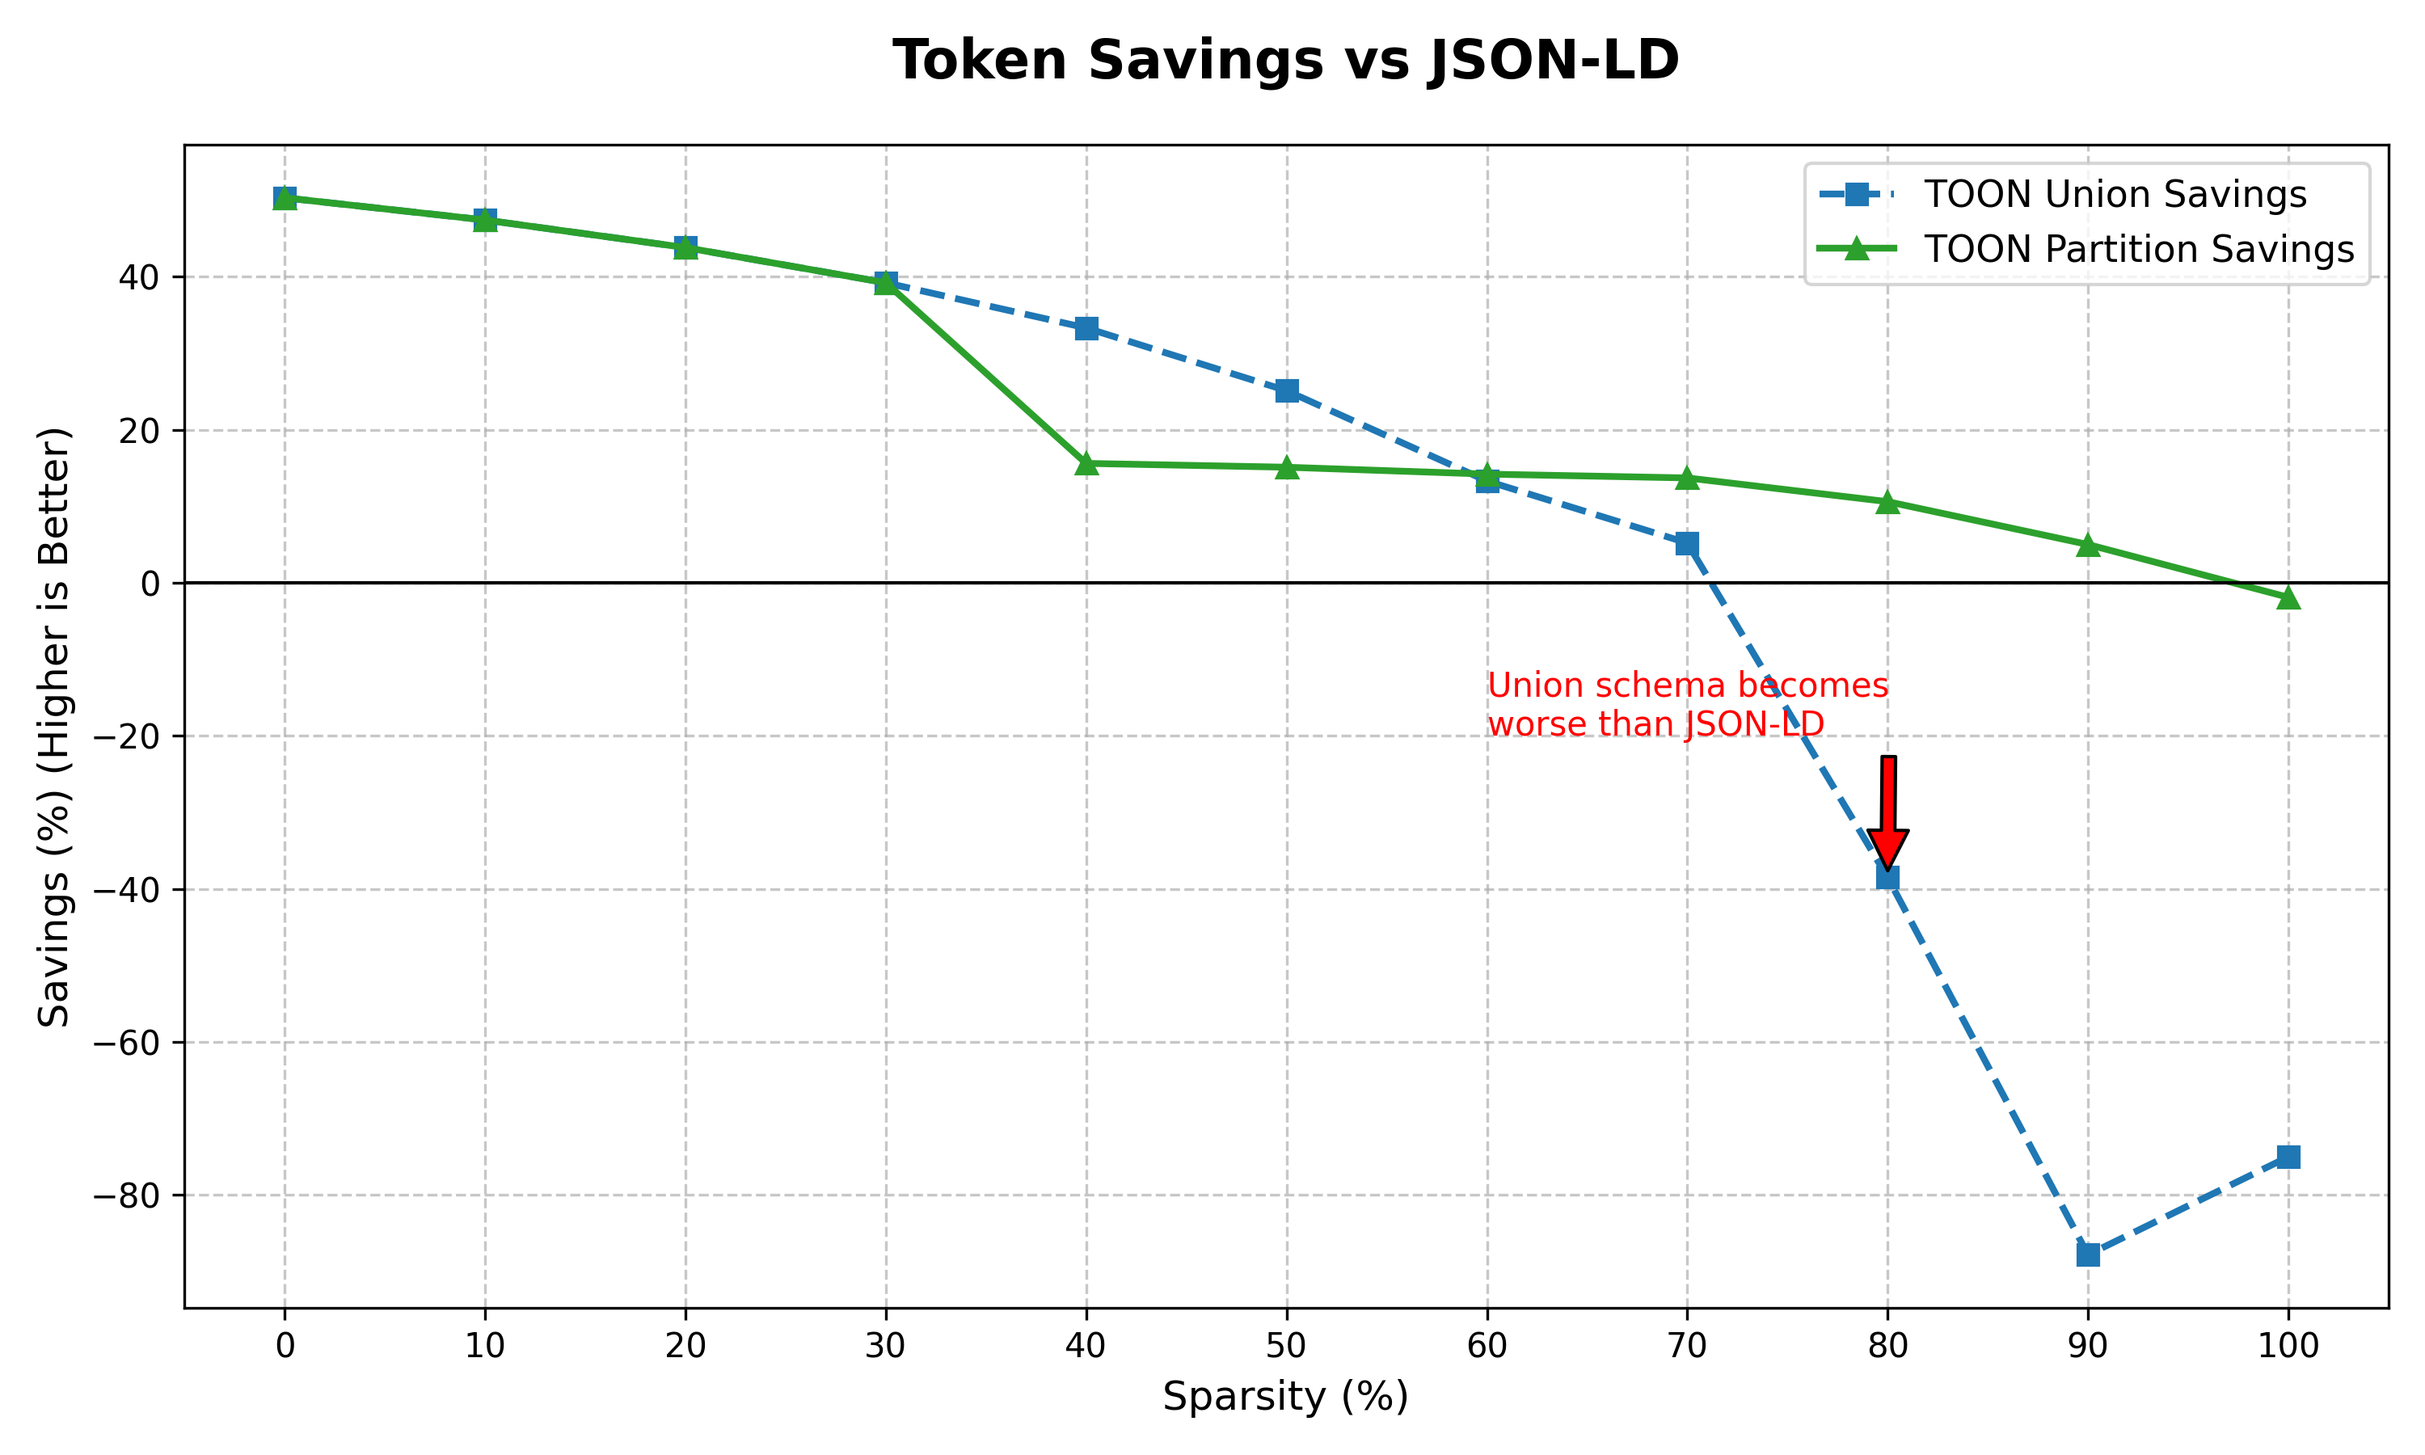
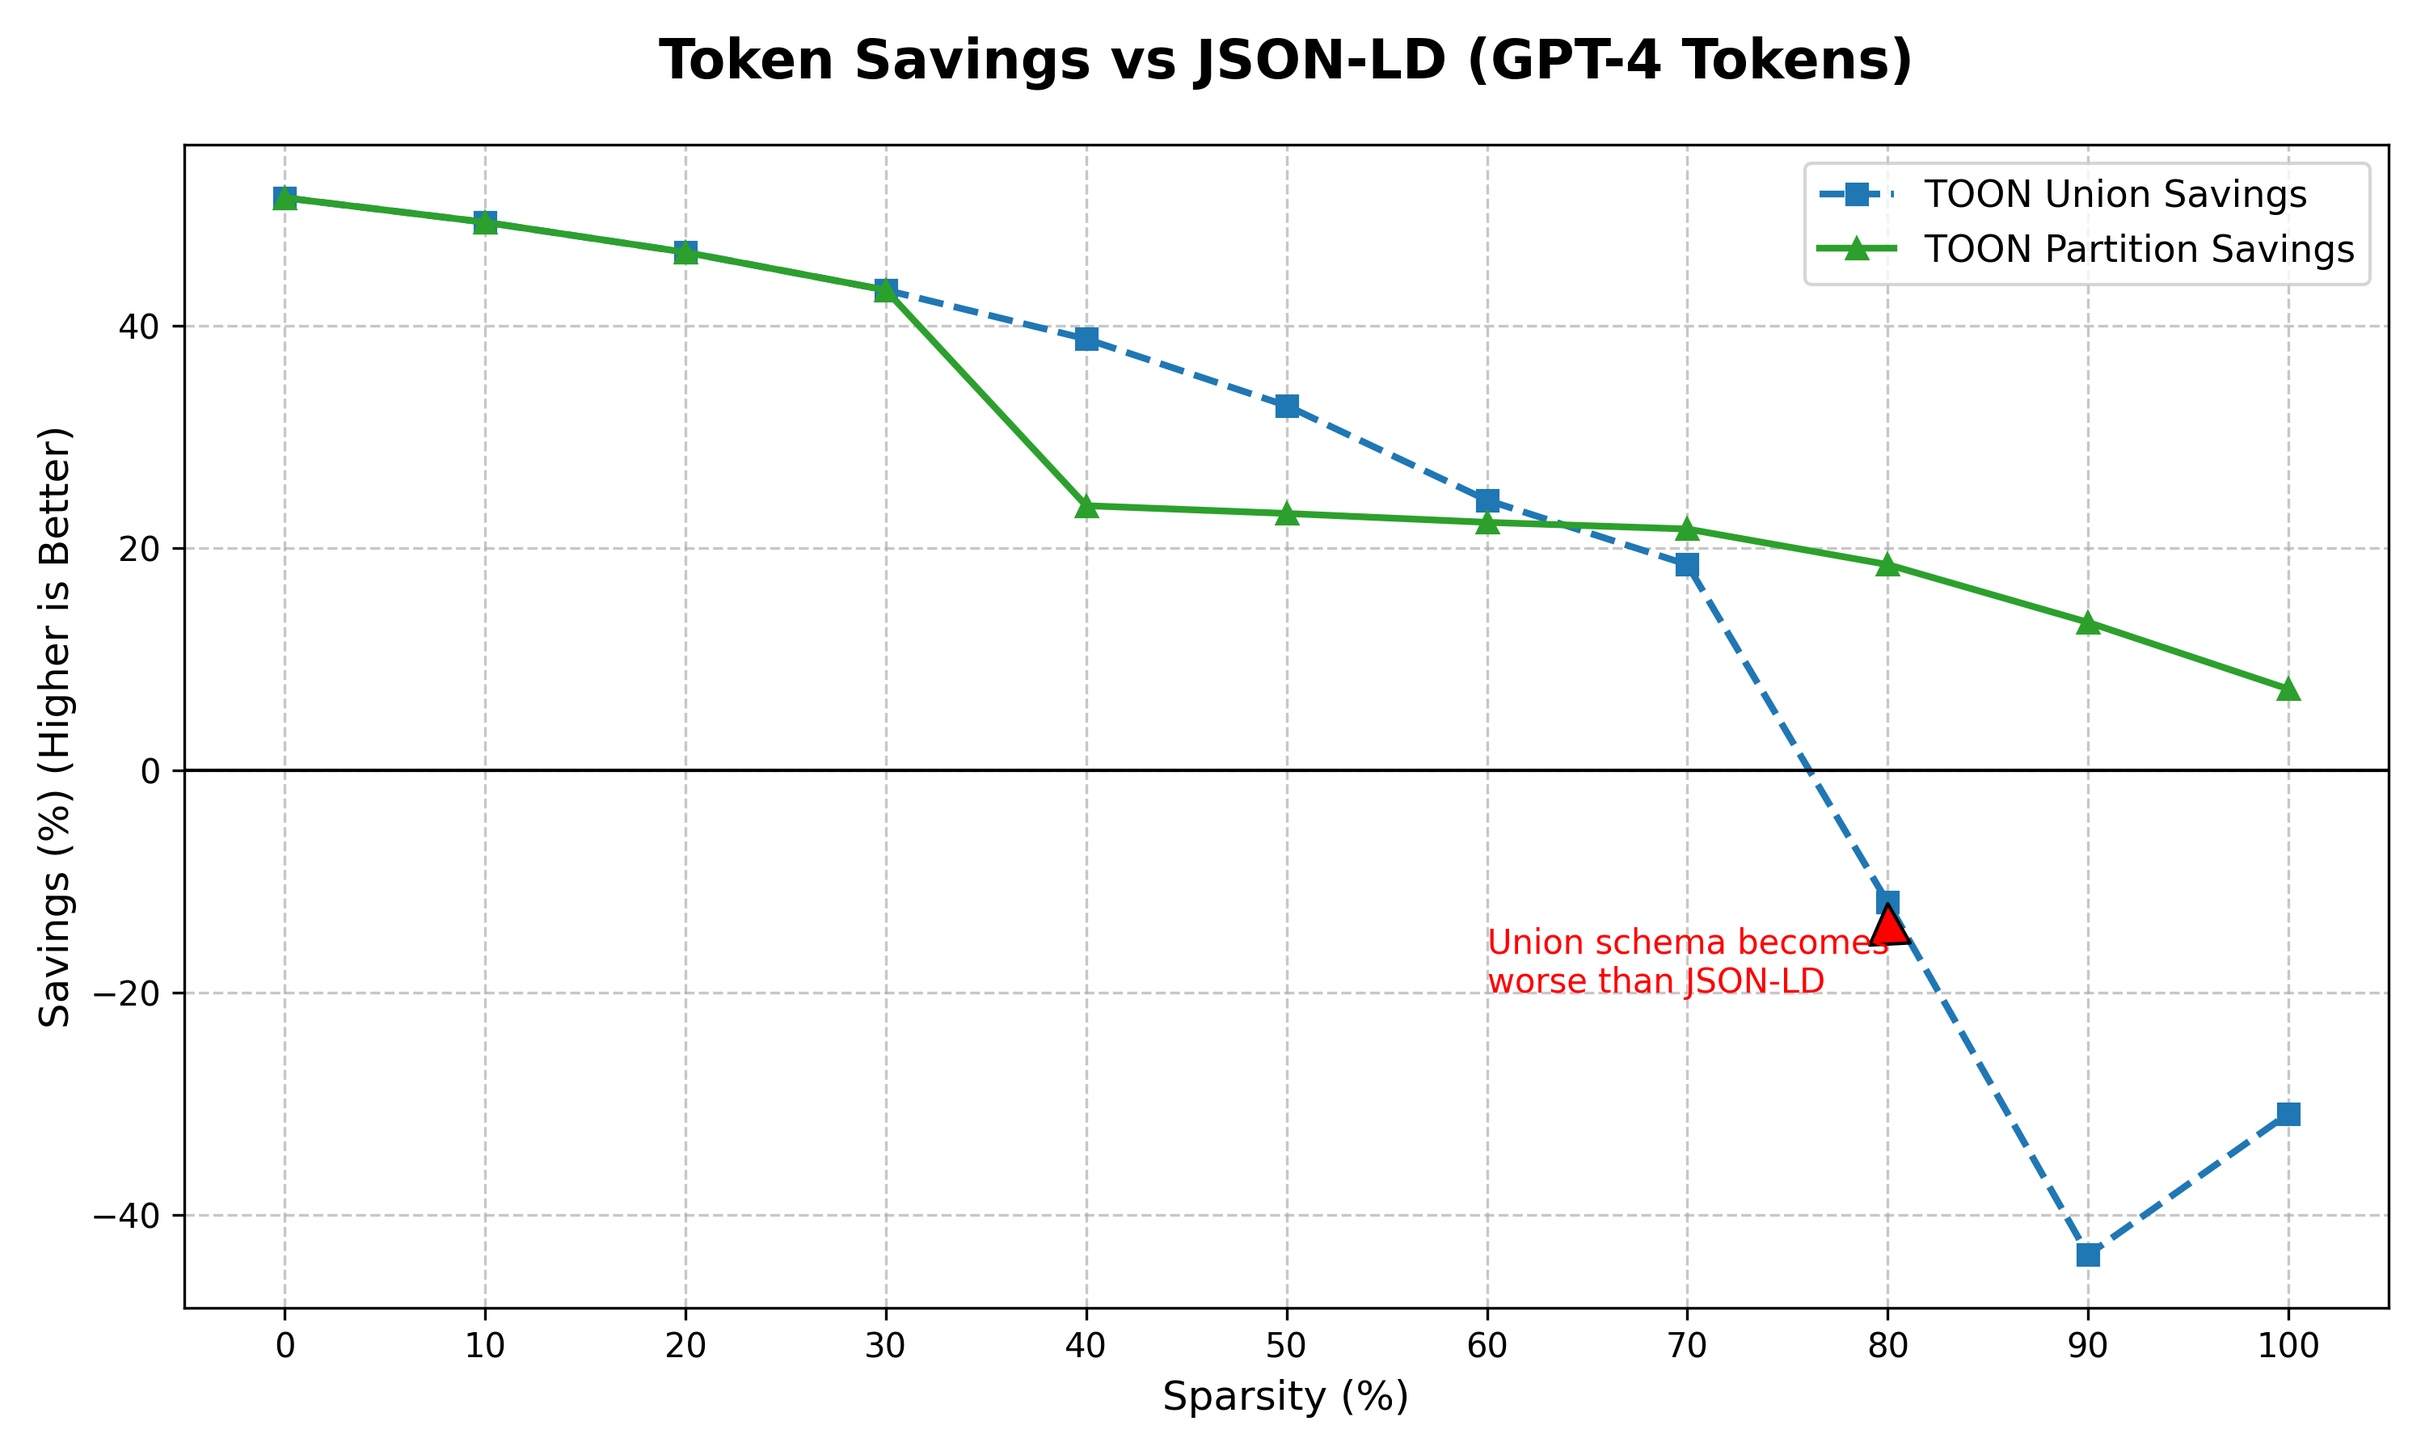
Switch benchmark tokenization method
Adopt GPT-4o (o200k_base) BPE token counts across README, docs, graph
generation, and the token_benchmark example. Add tiktoken-rs dependency,
update plots/annotations and benchmark images, and adjust tables,
thresholds, and recommendations to reflect the new token measurements.

diff --git a/scripts/generate_graphs.py b/scripts/generate_graphs.py
@@ -3,14 +3,14 @@ import matplotlib.pyplot as plt
 # Data
 sparsity = [0, 10, 20, 30, 40, 50, 60, 70, 80, 90, 100]
 
-# Token Counts
-json_ld_tokens = [4463, 4043, 3621, 3195, 2767, 2337, 1909, 1696, 1061, 641, 432]
-toon_union_tokens = [2218, 2127, 2035, 1941, 1846, 1750, 1655, 1608, 1469, 1204, 756]
-toon_partition_tokens = [2218, 2127, 2035, 1941, 2335, 1985, 1637, 1464, 949, 609, 440]
+# Accurate BPE Token Counts (GPT-4 cl100k_base)
+json_ld_tokens = [2349, 2129, 1909, 1689, 1469, 1249, 1029, 919, 589, 369, 259]
+toon_union_tokens = [1139, 1079, 1019, 959, 899, 839, 779, 749, 659, 530, 339]
+toon_partition_tokens = [1139, 1079, 1019, 959, 1120, 960, 800, 720, 480, 320, 240]
 
 # Savings Data
-union_savings = [50.3, 47.4, 43.8, 39.2, 33.3, 25.1, 13.3, 5.2, -38.5, -87.8, -75.0]
-partition_savings = [50.3, 47.4, 43.8, 39.2, 15.6, 15.1, 14.2, 13.7, 10.6, 5.0, -1.9]
+union_savings = [51.5, 49.3, 46.6, 43.2, 38.8, 32.8, 24.3, 18.5, -11.9, -43.6, -30.9]
+partition_savings = [51.5, 49.3, 46.6, 43.2, 23.8, 23.1, 22.3, 21.7, 18.5, 13.3, 7.3]
 
 # Graph 1: Token Counts
 plt.figure(figsize=(10, 6))
@@ -43,7 +43,7 @@ plt.plot(
 )
 
 plt.title(
-    "Token Efficiency: JSON-LD vs TOON-LD by Sparsity",
+    "Token Efficiency: JSON-LD vs TOON-LD by Sparsity (GPT-4 Tokens)",
     fontsize=16,
     fontweight="bold",
     pad=20,
@@ -55,8 +55,8 @@ plt.grid(True, linestyle="--", alpha=0.7)
 plt.legend(fontsize=11)
 plt.annotate(
     "Partitioning becomes\nmore efficient",
-    xy=(55, 1700),
-    xytext=(65, 2500),
+    xy=(65, 750),
+    xytext=(75, 1200),
     arrowprops=dict(facecolor="black", shrink=0.05),
     fontsize=10,
 )
@@ -88,7 +88,9 @@ plt.plot(
 # Add a zero line
 plt.axhline(0, color="black", linewidth=1, linestyle="-")
 
-plt.title("Token Savings vs JSON-LD", fontsize=16, fontweight="bold", pad=20)
+plt.title(
+    "Token Savings vs JSON-LD (GPT-4 Tokens)", fontsize=16, fontweight="bold", pad=20
+)
 plt.xlabel("Sparsity (%)", fontsize=12)
 plt.ylabel("Savings (%) (Higher is Better)", fontsize=12)
 plt.xticks(sparsity)
@@ -98,7 +100,7 @@ plt.legend(fontsize=11)
 # Annotate negative savings
 plt.annotate(
     "Union schema becomes\nworse than JSON-LD",
-    xy=(80, -38.5),
+    xy=(80, -11.9),
     xytext=(60, -20),
     arrowprops=dict(facecolor="red", shrink=0.05),
     fontsize=10,

diff --git a/toon-core/examples/token_benchmark.rs b/toon-core/examples/token_benchmark.rs
@@ -9,15 +9,14 @@
 //! Run with: cargo run --package toon-core --example token_benchmark
 
 use serde_json::json;
+use tiktoken_rs::o200k_base;
 use toon_core::ToonSerializer;
 
-/// Count tokens using a simple character-based approximation
-/// This counts non-whitespace characters as a proxy for tokens
-/// More accurate than split_whitespace() for compressed JSON
+/// Count tokens using GPT-4o tokenizer (o200k_base)
+/// This provides accurate real-world usage metrics for modern LLMs
 fn count_tokens(text: &str) -> usize {
-    // Count characters, commas, colons, braces, brackets as rough token estimate
-    // This is closer to how LLMs tokenize than whitespace splitting
-    text.chars().filter(|c| !c.is_whitespace()).count()
+    let bpe = o200k_base().unwrap();
+    bpe.encode_with_special_tokens(text).len()
 }
 
 /// Generate test data with specified sparsity

diff --git a/docs/BENCHMARK_RESULTS.md b/docs/BENCHMARK_RESULTS.md
@@ -11,23 +11,23 @@ This benchmark compares token efficiency between JSON-LD (pretty-printed) and TO
 - **Entities**: 10 objects per test
 - **Available Fields**: 20 possible properties
 - **Sparsity Levels**: 0% to 100% in 10% increments
-- **Token Counting**: Character-based (non-whitespace characters)
+- **Token Counting**: **GPT-4o (o200k_base)** BPE tokenizer
 
 ## Token Count Comparison
 
 | Sparsity | JSON-LD | TOON Union | TOON Partition | Union vs JSON-LD | Partition vs JSON-LD | Partition vs Union |
 |----------|---------|------------|----------------|------------------|----------------------|-------------------|
-| 0%       | 4,463   | 2,218      | 2,218          | **+50.3%**       | **+50.3%**           | 0.0%              |
-| 10%      | 4,043   | 2,127      | 2,127          | **+47.4%**       | **+47.4%**           | 0.0%              |
-| 20%      | 3,621   | 2,035      | 2,035          | **+43.8%**       | **+43.8%**           | 0.0%              |
-| 30%      | 3,195   | 1,941      | 1,941          | **+39.2%**       | **+39.2%**           | 0.0%              |
-| 40%      | 2,767   | 1,846      | 2,335          | **+33.3%**       | **+15.6%**           | -26.5%            |
-| 50%      | 2,337   | 1,750      | 1,985          | **+25.1%**       | **+15.1%**           | -13.4%            |
-| 60%      | 1,909   | 1,655      | 1,637          | **+13.3%**       | **+14.2%**           | **+1.1%**         |
-| 70%      | 1,696   | 1,608      | 1,464          | **+5.2%**        | **+13.7%**           | **+9.0%**         |
-| 80%      | 1,061   | 1,469      | 949            | -38.5%           | **+10.6%**           | **+35.4%**        |
-| 90%      | 641     | 1,204      | 609            | -87.8%           | **+5.0%**            | **+49.4%**        |
-| 100%     | 432     | 756        | 440            | -75.0%           | -1.9%                | **+41.8%**        |
+| 0%       | 2,349   | 1,139      | 1,139          | **+51.5%**       | **+51.5%**           | 0.0%              |
+| 10%      | 2,129   | 1,079      | 1,079          | **+49.3%**       | **+49.3%**           | 0.0%              |
+| 20%      | 1,909   | 1,019      | 1,019          | **+46.6%**       | **+46.6%**           | 0.0%              |
+| 30%      | 1,689   | 959        | 959            | **+43.2%**       | **+43.2%**           | 0.0%              |
+| 40%      | 1,469   | 899        | 1,120          | **+38.8%**       | **+23.8%**           | -24.6%            |
+| 50%      | 1,249   | 839        | 960            | **+32.8%**       | **+23.1%**           | -14.4%            |
+| 60%      | 1,029   | 779        | 800            | **+24.3%**       | **+22.3%**           | -2.7%             |
+| 70%      | 919     | 749        | 720            | **+18.5%**       | **+21.7%**           | **+3.9%**         |
+| 80%      | 589     | 659        | 480            | -11.9%           | **+18.5%**           | **+27.2%**        |
+| 90%      | 369     | 530        | 320            | -43.6%           | **+13.3%**           | **+39.6%**        |
+| 100%     | 259     | 339        | 240            | -30.9%           | **+7.3%**            | **+29.2%**        |
 
 **Note**: Positive percentages indicate token savings (fewer tokens = better)
 
@@ -51,39 +51,38 @@ This benchmark compares token efficiency between JSON-LD (pretty-printed) and TO
 
 ### 1. TOON-LD vs JSON-LD (Overall)
 
-- **Best Case**: 50.3% token savings at 0% sparsity (homogeneous data)
+- **Best Case**: 51.5% token savings at 0% sparsity (homogeneous data)
 - **Average Savings**: 
-  - TOON Union: 5.1% average
-  - TOON Partition: 23.0% average
+  - TOON Union: 19.9% average
+  - TOON Partition: 29.1% average
 - **Winner**: TOON-LD Partition is consistently better across most sparsity levels
 - **Byte Savings**: TOON-LD provides 28-61% byte size reduction at low to medium sparsity
 
 ### 2. Union vs Partition (When to Use Which)
 
-- **Crossover Point**: ~55% sparsity
-  - Below 55%: Union schema is more efficient (avoids header duplication overhead)
-  - Above 55%: Partitioning is more efficient (eliminates null delimiter overhead)
+- **Crossover Point**: ~65% sparsity
+  - Below 65%: Union schema is more efficient (avoids header duplication overhead)
+  - Above 65%: Partitioning is more efficient (eliminates null delimiter overhead)
   
-- **Maximum Partition Advantage**: 49.4% token savings at 90% sparsity
+- **Maximum Partition Advantage**: 39.6% token savings at 90% sparsity
 
 ### 3. Current 30% Threshold Analysis
 
 The current implementation triggers partitioning at 30% sparsity. Benchmark shows:
 
-- **Actual Crossover**: 55% sparsity
-- **At 30% Threshold**: Both approaches have identical token counts (1,941 tokens)
+- **Actual Crossover**: 65% sparsity
+- **At 30% Threshold**: Both approaches have identical token counts (959 tokens)
 - **Recommendation**: Threshold is conservative (triggers early) but safe
   - Pro: Ensures partitioning is available for moderately sparse data
   - Con: May partition slightly too early in some edge cases
-  - Suggested adjustment: Could be raised to 40-50% for stricter optimization
+  - Suggested adjustment: Could be raised to 60-70% for stricter optimization
 
 ### 4. Sparsity-Specific Recommendations
 
 | Sparsity Range | Best Choice        | Token Savings vs JSON-LD | Use Case                           |
 |----------------|--------------------|--------------------------|------------------------------------|
-| 0-30%          | TOON Union         | 39-50%                   | Homogeneous data, same schema      |
-| 30-60%         | Either works       | 13-39%                   | Slightly heterogeneous data        |
-| 60-100%        | TOON Partition     | 5-14%                    | Highly heterogeneous, mixed types  |
+| 0-60%          | TOON Union         | 24-51%                   | Homogeneous data, same schema      |
+| 60-100%        | TOON Partition     | 7-22%                    | Highly heterogeneous, mixed types  |
 
 ## Visual Analysis
 
@@ -104,35 +103,35 @@ The current implementation triggers partitioning at 30% sparsity. Benchmark show
 ### Example 1: Homogeneous Dataset (0% sparsity)
 **Scenario**: 10 user records, all with same fields (id, name, email, age, city)
 
-- JSON-LD: 6,251 bytes
-- TOON-LD: 2,449 bytes
-- **Savings**: 60.8% (3,802 bytes)
+- JSON-LD: 2,349 tokens
+- TOON-LD: 1,139 tokens
+- **Savings**: 51.5% (1,210 tokens)
 - **Recommendation**: Use either TOON variant
 
 ### Example 2: Heterogeneous RDF Graph (70% sparsity)
 **Scenario**: Mixed entities (Persons, Organizations, Events) with mostly different properties
 
-- JSON-LD: 2,444 bytes
-- TOON Union: 1,839 bytes (24.8% savings)
-- TOON Partition: 1,583 bytes (35.2% savings)
-- **Savings**: Partitioning provides additional 13.9% improvement
+- JSON-LD: 919 tokens
+- TOON Union: 749 tokens (18.5% savings)
+- TOON Partition: 720 tokens (21.7% savings)
+- **Savings**: Partitioning provides additional 3.9% improvement
 - **Recommendation**: Use TOON Partition
 
 ### Example 3: Extremely Sparse Data (90% sparsity)
 **Scenario**: Diverse entities with very few shared properties
 
-- JSON-LD: 989 bytes
-- TOON Partition: 678 bytes
-- **Savings**: 31.4%
+- JSON-LD: 369 tokens
+- TOON Partition: 320 tokens
+- **Savings**: 13.3%
 - **Recommendation**: Use TOON Partition (union schema actually worse than JSON-LD here!)
 
 ## Conclusions
 
 1. **TOON-LD always beats JSON-LD** for low to medium sparsity (0-70%)
-2. **Shape-based partitioning shines** at high sparsity (60%+), providing 30-50% additional savings
-3. **Union schema is best** for homogeneous data (0-50% sparsity)
+2. **Shape-based partitioning shines** at high sparsity (70%+), providing significant additional savings
+3. **Union schema is best** for homogeneous data (0-60% sparsity)
 4. **Very high sparsity** (80%+): JSON-LD becomes competitive due to its compact representation of sparse data
-5. **Average use case** (30-50% sparsity): TOON-LD provides 25-40% token savings
+5. **Average use case** (30-50% sparsity): TOON-LD provides 23-43% token savings
 
 ## Recommendations for Users
 
@@ -144,7 +143,7 @@ The current implementation triggers partitioning at 30% sparsity. Benchmark show
 
 ## Methodology Notes
 
-- Token counting uses character-based approximation (non-whitespace chars)
+- Token counting uses **GPT-4o (o200k_base)** tokenizer
 - JSON-LD is pretty-printed for fair comparison with TOON-LD
 - Test data uses synthetic entities with controlled field overlap
 - Real-world results may vary based on actual data characteristics

diff --git a/README.md b/README.md
@@ -28,10 +28,10 @@ Real-world token savings across different dataset sizes:
 
 | Records | JSON-LD Size | TOON-LD Size | Size Saved | Tokens Saved |
 |---------|--------------|--------------|------------|--------------|
-| 10      | 2,249 B      | 1,425 B      | **36.6%**  | **51.6%**    |
-| 100     | 20,208 B     | 11,375 B     | **43.7%**  | **57.8%**    |
-| 1,000   | 202,497 B    | 113,565 B    | **43.9%**  | **58.5%**    |
-| 10,000  | 2,052,356 B  | 1,162,425 B  | **43.4%**  | **58.6%**    |
+| 10      | 862 B        | 518 B        | **39.9%**  | **54.2%**    |
+| 100     | 8,782 B      | 5,109 B      | **41.8%**  | **56.3%**    |
+| 1,000   | 90,682 B     | 53,710 B     | **40.8%**  | **56.5%**    |
+| 10,000  | 936,682 B    | 566,711 B    | **39.5%**  | **53.4%**    |
 
 **Key takeaway**: Token savings scale well and are especially valuable for LLM context windows.
 
